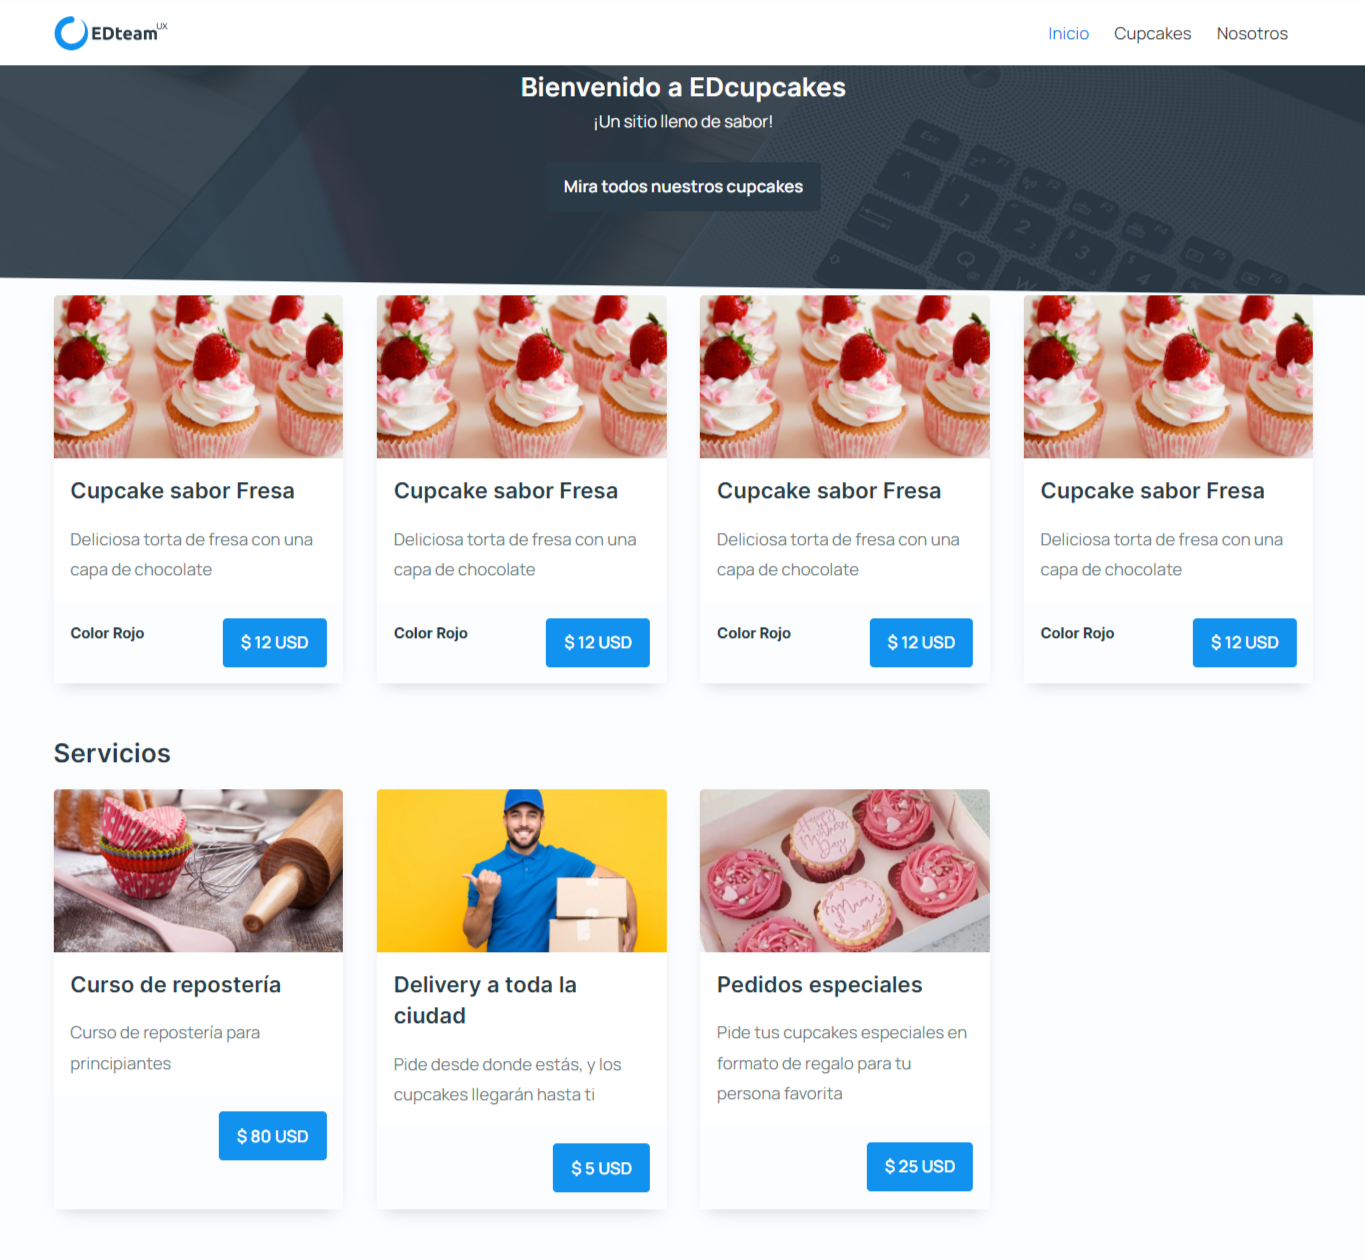
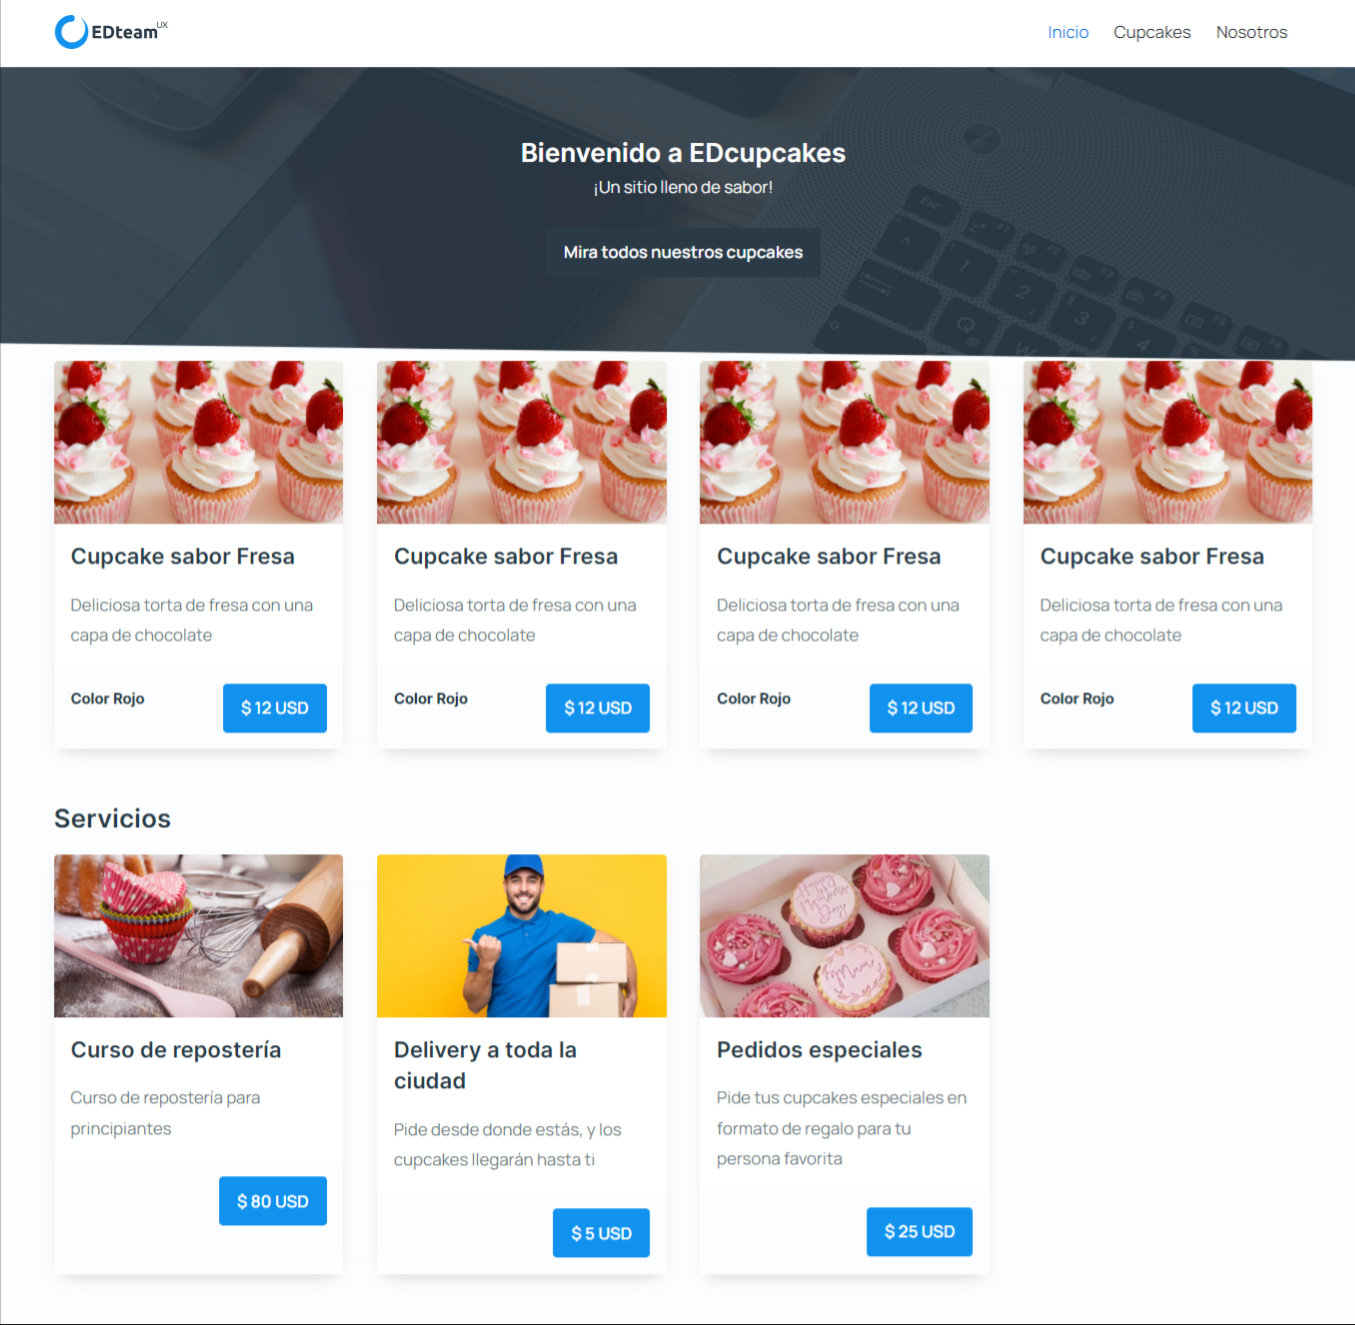
[Add] Images

diff --git a/README.md b/README.md
@@ -47,3 +47,13 @@ El desarrollo del código del proyecto fue hecho por [Jorge de Jesús Pérez Ló
 ![EDcupcake Cupcakes](./edcupcake/EDcupcake2.png)
 
 ![EDcupcake Nosotros](./edcupcake/EDcupcake3.png)
+
+![EDcupcake Inicio en móvil](./edcupcake/EDcupcake4.png)
+
+![EDcupcake Cupcakes en móvil](./edcupcake/EDcupcake5.png)
+
+![EDcupcake Nosotros en móvil](./edcupcake/EDcupcake6.png)
+
+![EDcupcake Nosotros en móvil segunda parte](./edcupcake/EDcupcake7.png)
+
+![EDcupcake Servicios en móvil](./edcupcake/EDcupcake8.png)
